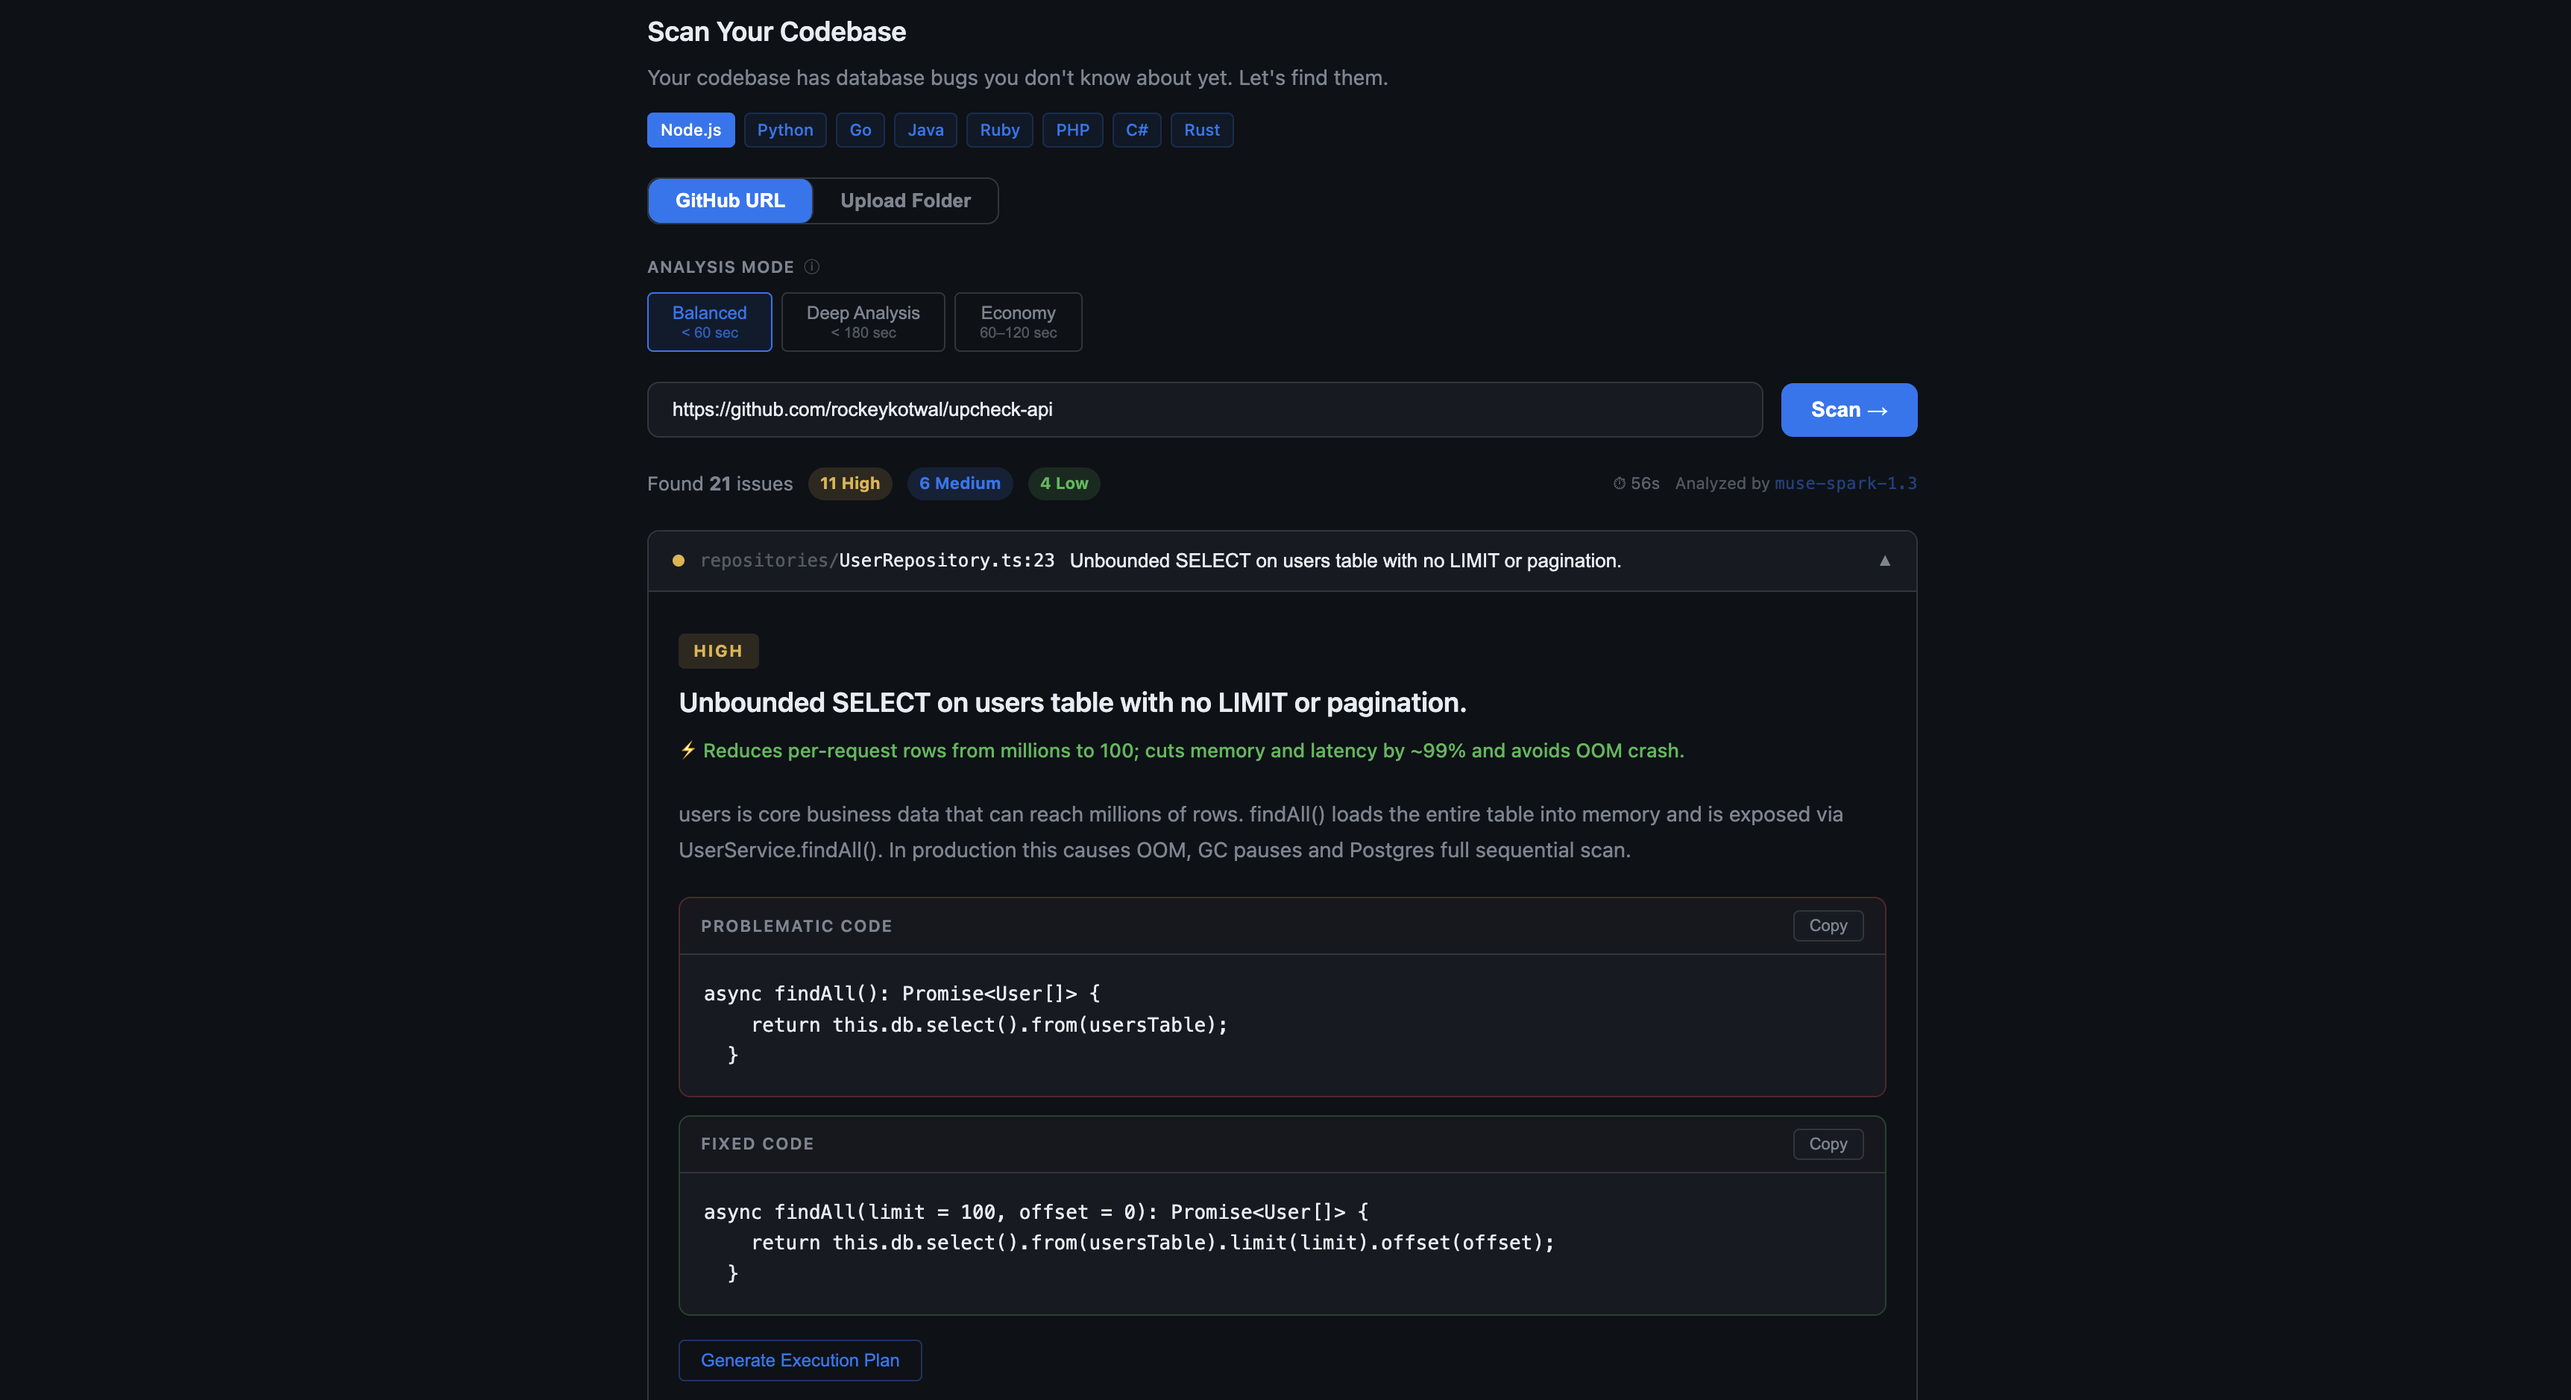
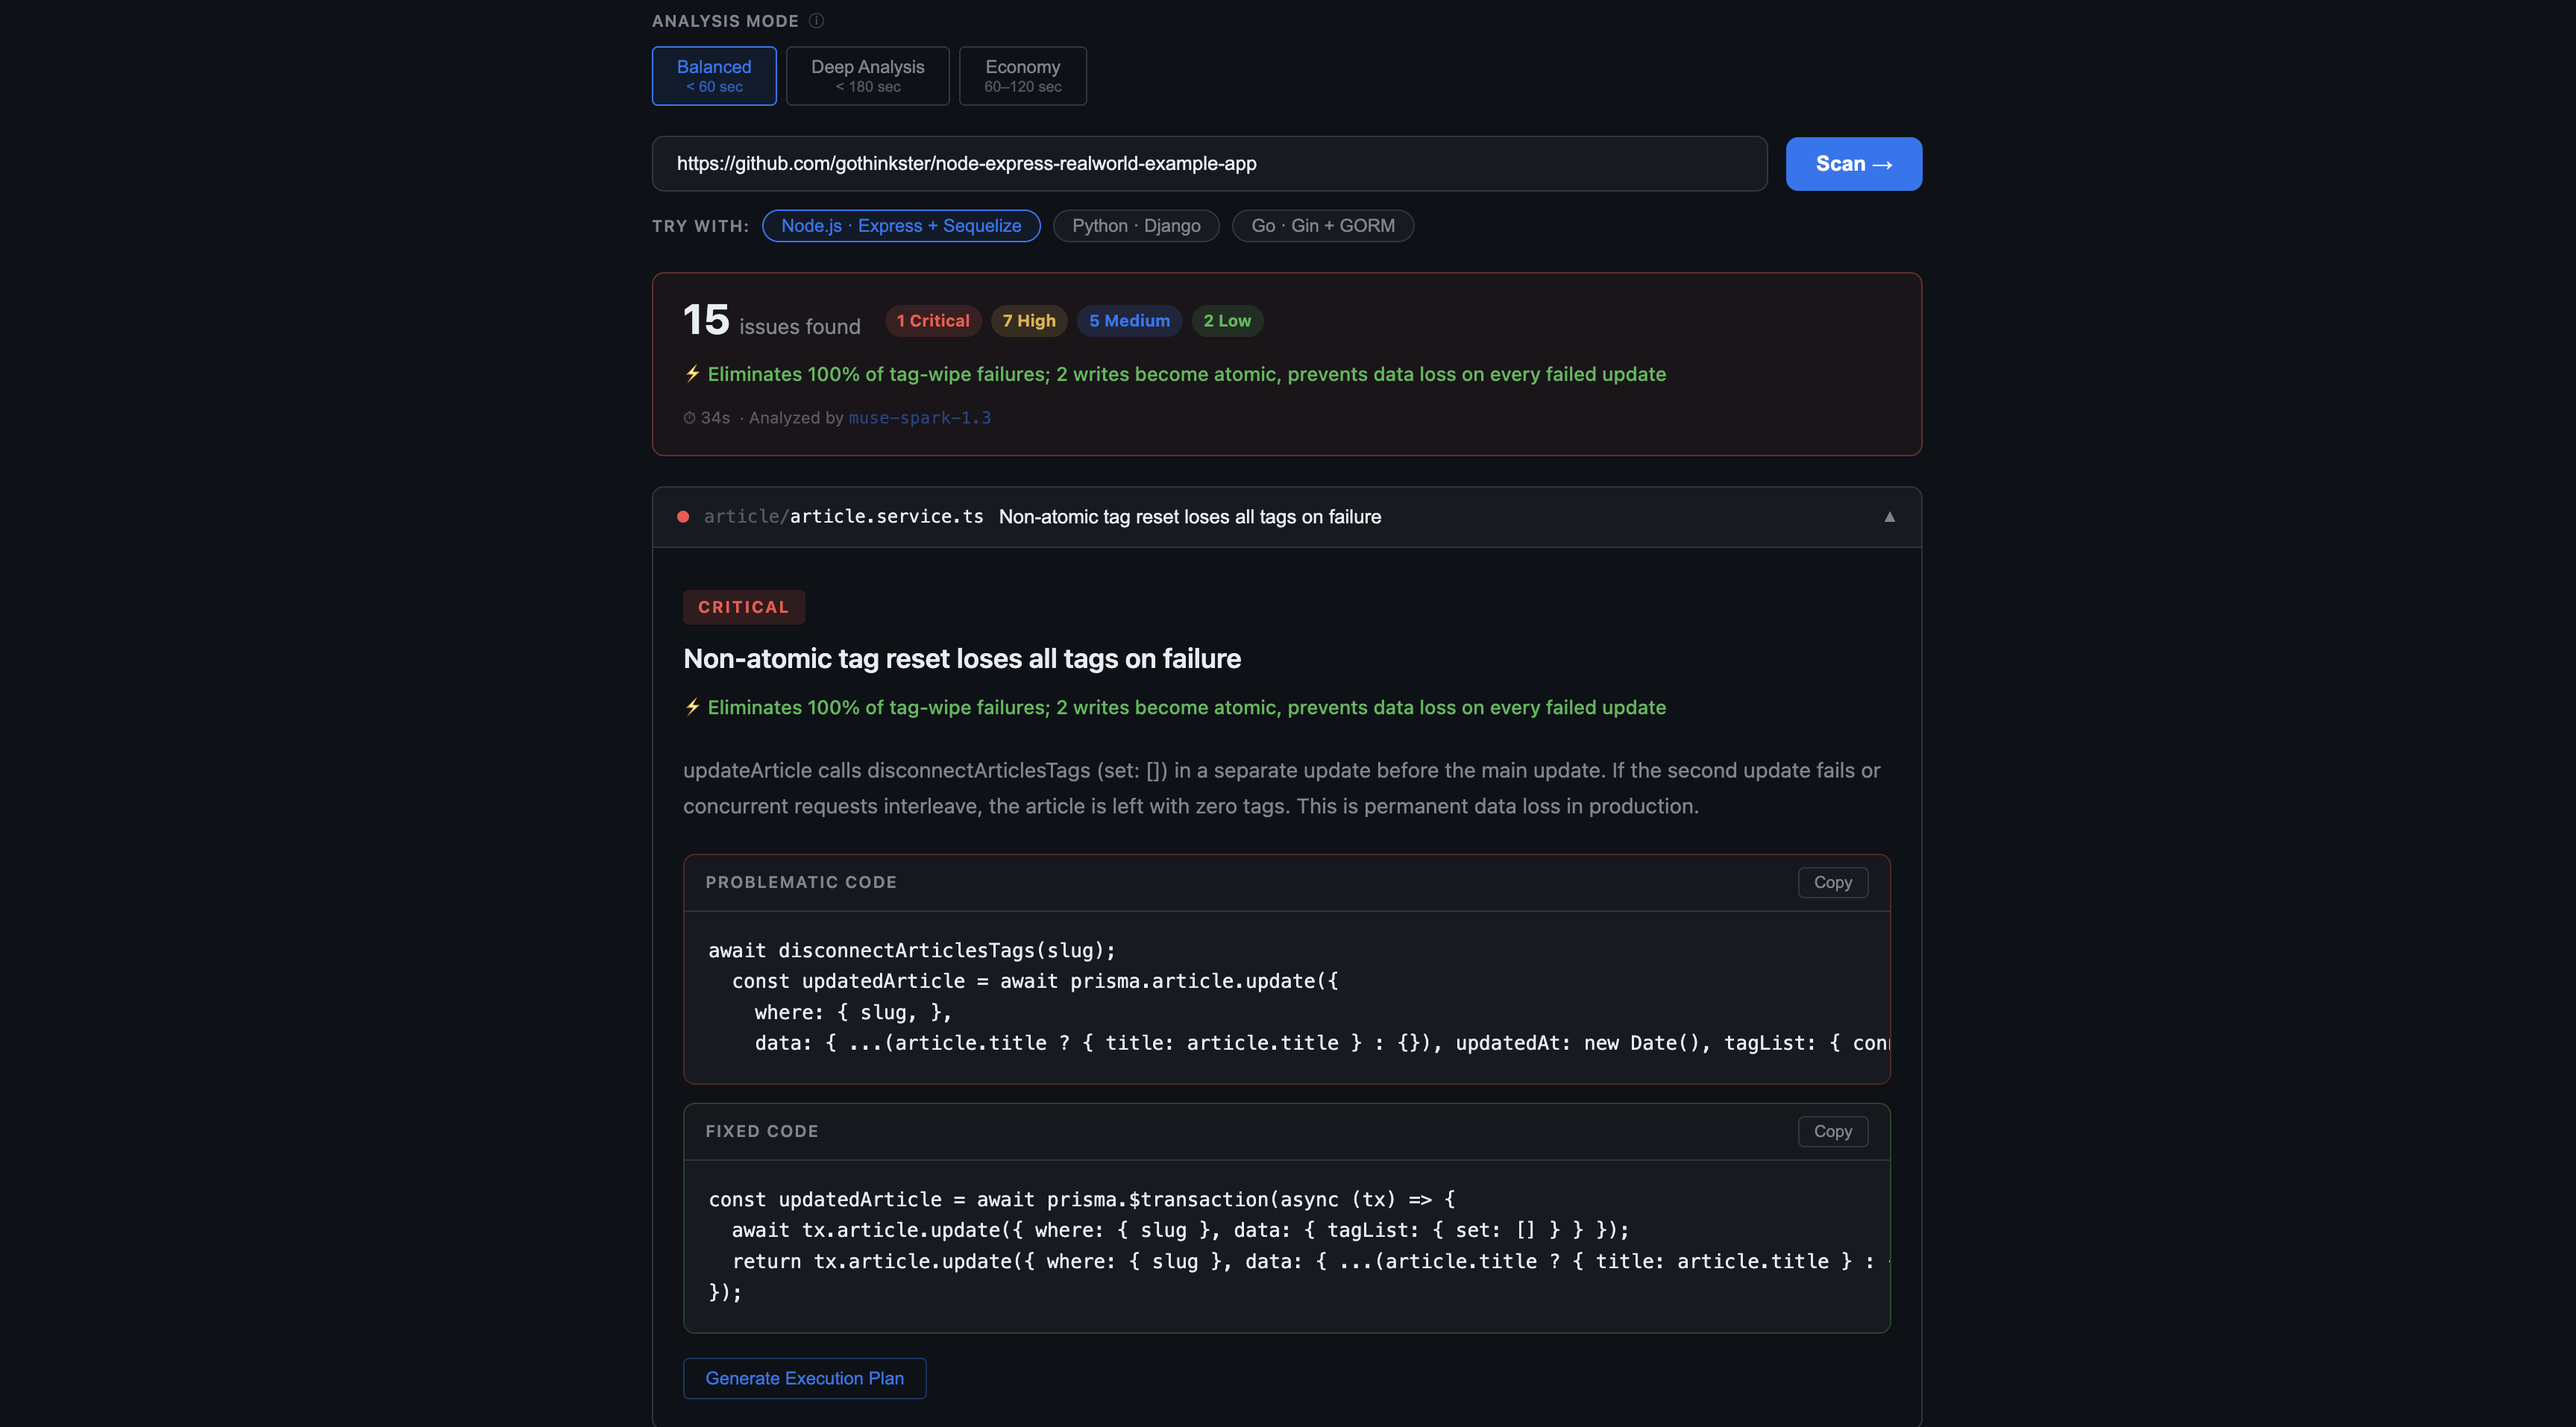
Update scan result highlighting tiles and readme ss update

diff --git a/src/components/AgentScanner.tsx b/src/components/AgentScanner.tsx
@@ -468,19 +468,36 @@ export default function AgentScanner() {
 
       {findings.length > 0 && (
         <>
-          <div className="findings-summary">
-            <span>Found <strong>{findings.length}</strong> issue{findings.length !== 1 ? 's' : ''}</span>
-            {(['critical', 'high', 'medium', 'low'] as const).map(s => {
-              const count = findings.filter(f => f.severity === s).length
-              return count > 0
-                ? <span key={s} className={`summary-chip severity-${s}`}>{count} {s}</span>
-                : null
-            })}
-            <span className="summary-meta">
-              {scanDuration != null && <span className="scan-duration">⏱ {scanDuration}s</span>}
-              {scanModel && <span className="scan-model-attribution">Analyzed by <span className="attribution-model">{scanModel}</span></span>}
-            </span>
-          </div>
+          {(() => {
+            const counts = { critical: 0, high: 0, medium: 0, low: 0 }
+            findings.forEach(f => counts[f.severity]++)
+            const topFinding = findings.find(f => f.severity === 'critical') ?? findings.find(f => f.severity === 'high')
+            const bannerMod = counts.critical > 0 ? 'banner-critical' : counts.high > 0 ? 'banner-high' : 'banner-neutral'
+            return (
+              <div className={`scan-summary-banner ${bannerMod}`}>
+                <div className="banner-top">
+                  <div className="banner-headline">
+                    <span className="banner-count">{findings.length}</span>
+                    <span className="banner-count-label">issue{findings.length !== 1 ? 's' : ''} found</span>
+                  </div>
+                  <div className="banner-chips">
+                    {(['critical', 'high', 'medium', 'low'] as const).map(s =>
+                      counts[s] > 0
+                        ? <span key={s} className={`summary-chip severity-${s}`}>{counts[s]} {s}</span>
+                        : null
+                    )}
+                  </div>
+                </div>
+                {topFinding && topFinding.impact_estimate !== 'N/A' && (
+                  <p className="banner-impact">⚡ {topFinding.impact_estimate}</p>
+                )}
+                <div className="banner-meta">
+                  {scanDuration != null && <span>⏱ {scanDuration}s</span>}
+                  {scanModel && <span>· Analyzed by <span className="attribution-model">{scanModel}</span></span>}
+                </div>
+              </div>
+            )
+          })()}
 
           <div className="findings-list">
             {findings.map((f, i) => (

diff --git a/src/components/AgentScanner.css b/src/components/AgentScanner.css
@@ -138,6 +138,40 @@
   border-radius: var(--radius); color: var(--critical); padding: 12px 16px; font-size: 13px;
 }
 
+.scan-summary-banner {
+  border-radius: var(--radius);
+  border: 1px solid var(--border);
+  padding: 16px 20px;
+  display: flex;
+  flex-direction: column;
+  gap: 10px;
+}
+.banner-critical { border-color: rgba(248,81,73,0.35); background: rgba(248,81,73,0.05); }
+.banner-high     { border-color: rgba(227,179,65,0.35); background: rgba(227,179,65,0.05); }
+.banner-neutral  { border-color: var(--border); background: rgba(255,255,255,0.02); }
+
+.banner-top { display: flex; align-items: center; gap: 16px; flex-wrap: wrap; }
+
+.banner-headline { display: flex; align-items: baseline; gap: 6px; }
+.banner-count { font-size: 28px; font-weight: 700; color: var(--text); line-height: 1; }
+.banner-count-label { font-size: 14px; color: var(--muted); }
+
+.banner-chips { display: flex; gap: 6px; flex-wrap: wrap; }
+
+.banner-impact {
+  font-size: 13px;
+  color: var(--low);
+  font-weight: 500;
+}
+
+.banner-meta {
+  font-size: 11px;
+  color: var(--muted);
+  opacity: 0.6;
+  display: flex;
+  gap: 6px;
+}
+
 .findings-summary {
   display: flex; align-items: center; gap: 10px; font-size: 13px; color: var(--muted); flex-wrap: wrap;
 }

diff --git a/src/App.tsx b/src/App.tsx
@@ -58,6 +58,7 @@ export default function App() {
 
       <footer className="footer">
         <span>Built with Meta AI · Muse Spark · Muse Wonder · Muse Image · Muse Voice</span>
+        <a href="https://rockeykotwal.in" target="_blank" rel="noreferrer">by Rockey Kotwal</a>
         <a href="https://github.com/rockeykotwal/backend-friend" target="_blank" rel="noreferrer">GitHub</a>
       </footer>
     </div>
